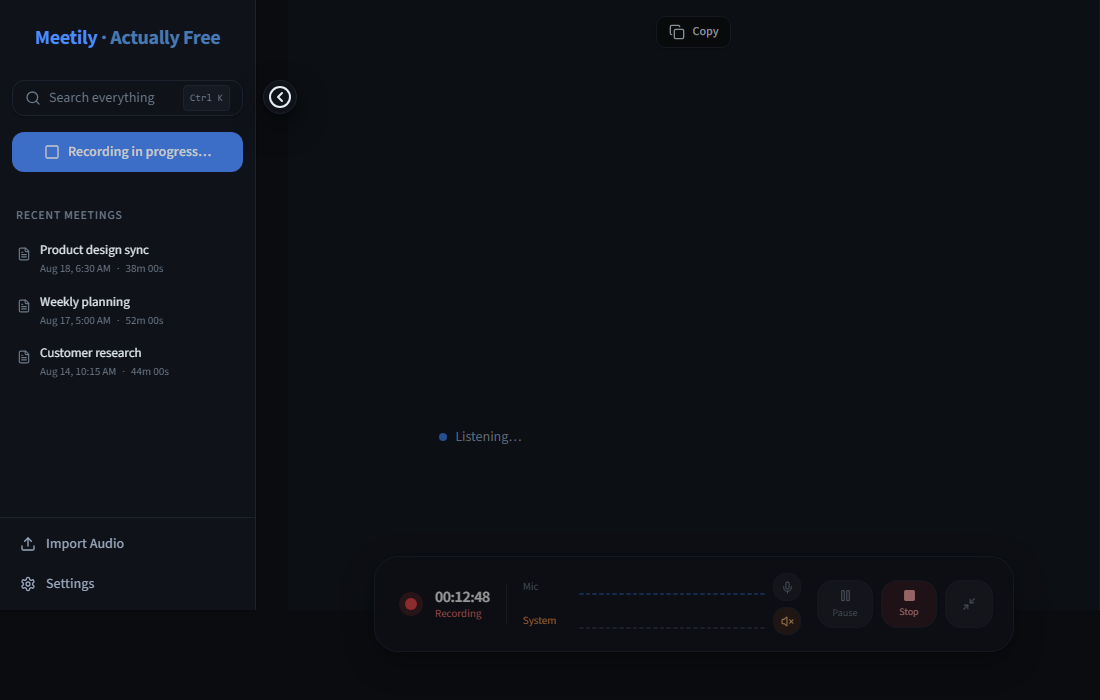
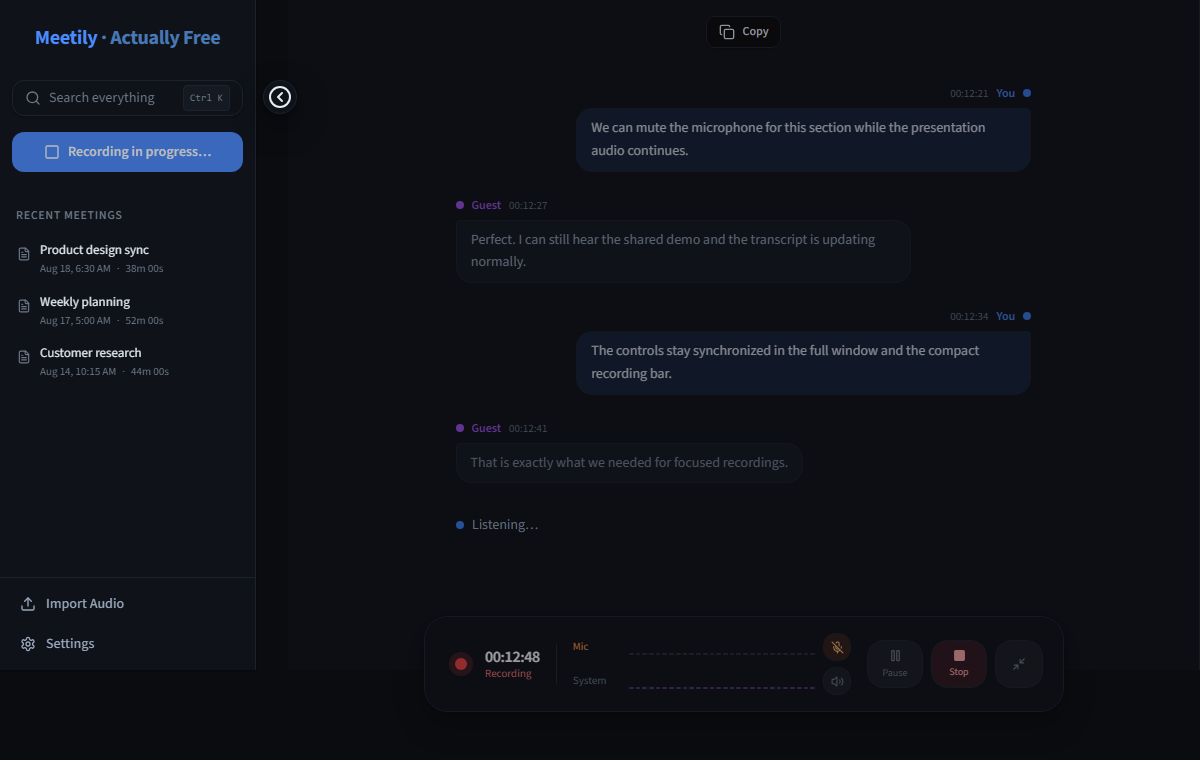
Show live transcription in README

diff --git a/README.md b/README.md
@@ -13,16 +13,10 @@ This fork also goes beyond removing feature restrictions. It adds speaker identi
 ## Interface
 
 <p align="center">
-  <img src="docs/images/meetily-interface.png" alt="Meetily live recording interface with source controls" width="1100" />
+  <img src="docs/images/meetily-interface.png" alt="Meetily live recording interface with speaker-labelled transcription" width="1100" />
 </p>
 
-<p align="center"><sub>Live recording view shown with sanitized demo meetings.</sub></p>
-
-<p align="center">
-  <img src="docs/images/v0.2.6-source-mute.png" alt="Independent microphone and system-audio mute controls in Meetily v0.2.6" width="1000" />
-</p>
-
-<p align="center"><sub>New in v0.2.6: independently mute microphone or system audio without interrupting the recording timeline.</sub></p>
+<p align="center"><sub>Live speaker-labelled transcription with synchronized source controls, shown with sanitized demo meetings.</sub></p>
 
 ## Feature Comparison
 
